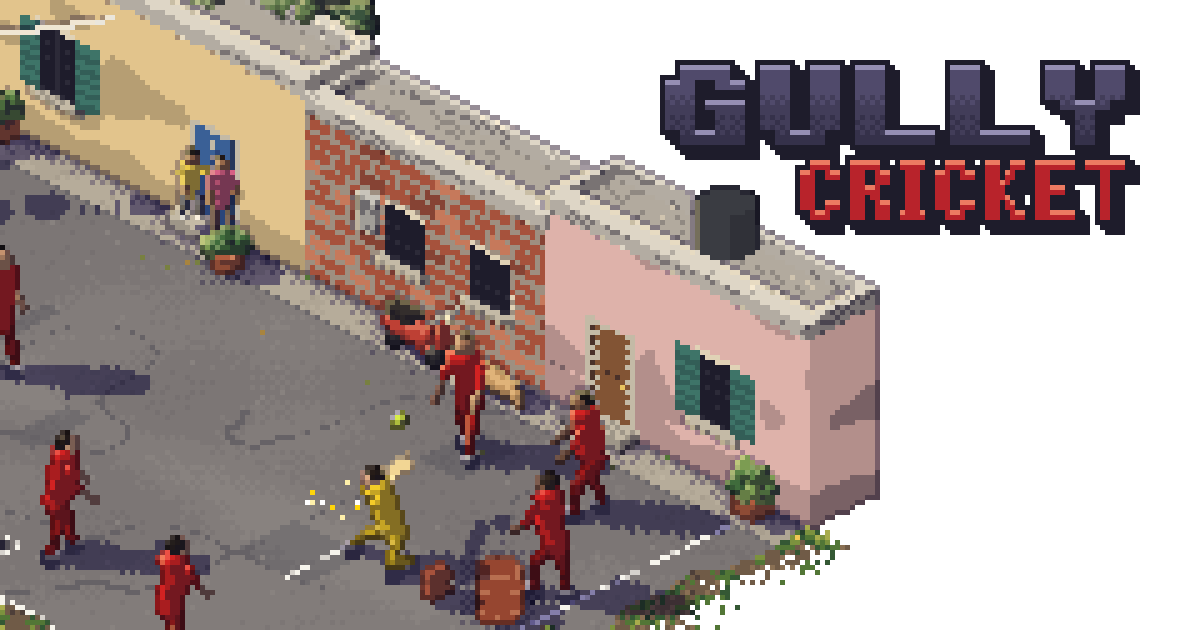
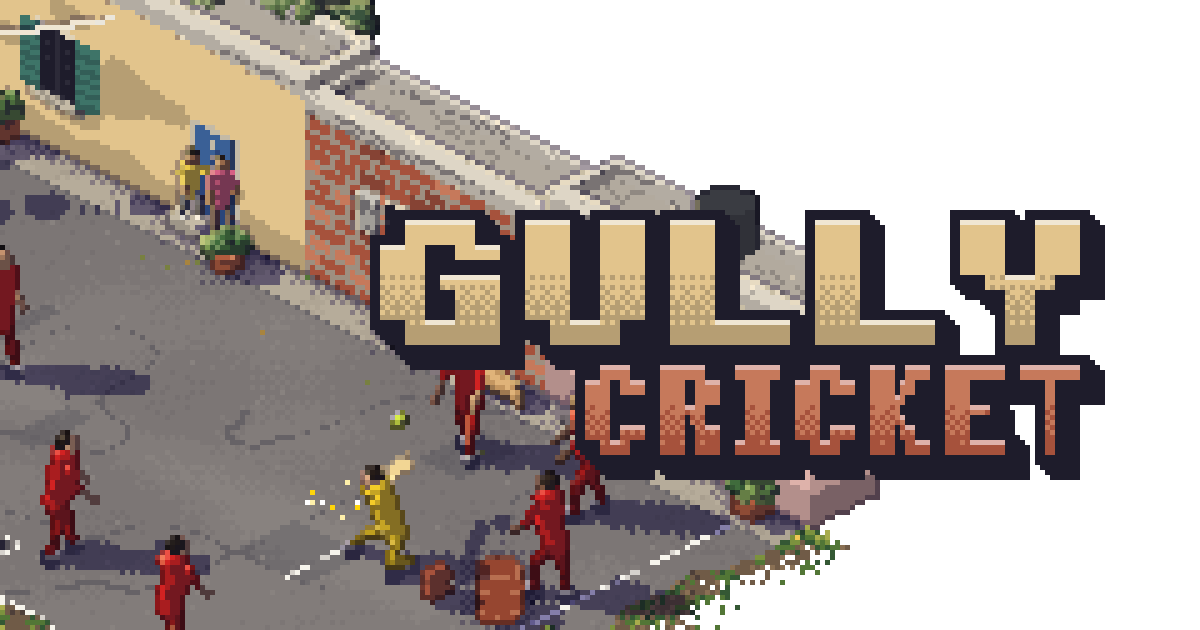
Link preview: GULLY CRICKET large over the scene, as in the mockup, in the scene's own sand and brick
The logo now spans x 370-1105, y 210-480 on the 5px grid, the size and place of the user's mockup. GULLY is the sand house's wall (#e2c48c/#b69e73, sill #f0e6d3 on top), CRICKET the brick wall (#c6795b/#a6523c, the pink wall's #deb2aa on top), with outline and side in the scene's darkest shadow #1e1c2b. The rule that the title may not touch the scene is gone; the script now checks it leaves the batter and the ball clear and stays 60px from the edges.

Agent-Id: agent-3fa41471-2c27-4681-970c-7f7c2cbf119c

Changed region(s): [[0.3083, 0.0905, 0.9558, 0.7841]]

diff --git a/scripts/make-art.js b/scripts/make-art.js
@@ -73,9 +73,10 @@ function frame(sc, t) {
    Pixel capitals drawn from 6×7 masks, where every mask column and row is given its own width and height in logo
    pixels: that is how GULLY is set broad and heavy and CRICKET condensed, from the same letters. The logo grid lands
    on the preview at LOGO px a pixel, the same ×5 as the scene, so its blocks line up with the scene's.
-   GULLY is a dark indigo taken from the scene's shadows, lit along the top of every stroke and Bayer-dithered darker
-   towards its foot; CRICKET is the favicon's cricket-ball red, flat, with the ball's highlight along its tops. Both
-   have an ink side extruded DEPTH logo pixels down and to the right and an ink outline round the lot. */
+   Every colour is one the engine paints in this very frame. GULLY_FILL / CRICKET_FILL below name where each was
+   sampled; each word is lit along the top of every stroke and Bayer-dithered darker towards its foot, the way the
+   engine shades a wall. Both have a side extruded DEPTH logo pixels down and to the right and an outline EDGE logo
+   pixels thick round the lot, in the scene's darkest shadow tone, so the title holds over the busy street. */
 const GLYPHS = {
   G: ['.####.', '##..##', '##....', '##.###', '##..##', '##..##', '.#####'],
   U: ['##..##', '##..##', '##..##', '##..##', '##..##', '##..##', '.####.'],
@@ -88,13 +89,19 @@ const GLYPHS = {
   E: ['######', '##....', '##....', '#####.', '##....', '##....', '######'],
   T: ['######', '..##..', '..##..', '..##..', '..##..', '..##..', '..##..'],
 };
-const LOGO = 5, DEPTH = 2, LEAD = 1;   // logo pixel in preview px; the extruded side and the space under a line, in logo px
-const INDIGO = ['#504a6b', '#423d59', '#35314a'], INDIGO_LIT = '#958eb3', TITLE_INK = '#1e1c2b';
+const LOGO = 5, DEPTH = 3, LEAD = 1, EDGE = 2;   // logo pixel in preview px; the side, the space under a line and the outline, in logo px
+/* sampled from the rendered scene (see the note above the title) */
+const INK = '#1e1c2b';                                     // the darkest shadow: the window openings and doorways
+const SAND = ['#e2c48c', '#b69e73'], SAND_LIT = '#f0e6d3';  // the sand house: its lit wall, its wall in shade, the window sills
+const BRICK = ['#c6795b', '#a6523c'];                       // the brick wall: the bricks catching the light, its brick
+const PINK_LIT = '#deb2aa';                                 // the pink house's lit wall, as the brick's highlight
+/* GULLY in the sand of the house it starts beside, CRICKET in the brick of the wall next to it */
+const GULLY_FILL = { ramp: SAND, lit: SAND_LIT }, CRICKET_FILL = { ramp: BRICK, lit: PINK_LIT };
 /* the lines, top to bottom. cols and rows: each mask column's width and each row's height (icols for the narrower I);
-   gap: logo pixels between letters. GULLY: 80×80 px letters with 25 px stems; CRICKET: 40×60 px with 15 px stems */
+   gap: logo pixels between letters. GULLY: 120×125 px letters with 45 px stems; CRICKET: 60×90 px with 25 px stems */
 const TITLE = [
-  { text: 'GULLY', cols: [3, 3, 2, 2, 3, 3], rows: [3, 2, 2, 2, 2, 2, 3], gap: 3, ramp: INDIGO, lit: INDIGO_LIT },
-  { text: 'CRICKET', cols: [2, 1, 1, 1, 1, 2], icols: [1, 2, 1, 1], rows: [2, 2, 1, 2, 1, 2, 2], gap: 2, ramp: [CRICKET_BALL.r], lit: CRICKET_BALL.h },
+  { text: 'GULLY', cols: [5, 4, 3, 3, 4, 5], rows: [5, 3, 3, 3, 3, 3, 5], gap: 5, ...GULLY_FILL },
+  { text: 'CRICKET', cols: [3, 2, 1, 1, 2, 3], icols: [2, 3, 2, 2], rows: [3, 3, 2, 2, 2, 3, 3], gap: 3, ...CRICKET_FILL },
 ];
 const sum = a => a.reduce((s, v) => s + v, 0);
 const edges = a => a.reduce((e, v) => (e.push(e.at(-1) + v), e), [0]);
@@ -105,8 +112,8 @@ const lineWidth = line => sum([...line.text].map(ch => sum(colsOf(line, ch)))) +
    starts `top` px down, and each line sits LEAD logo px under the side of the one above */
 function logo(right, top) {
   const w = OG_W / LOGO, h = OG_H / LOGO, fill = new Grid(w, h), at = new Grid(w, h), g = new Grid(w, h);
-  const r = right / LOGO - 2 - DEPTH;   // the last fill column: the side and the outline lie to its right
-  let y0 = top / LOGO + 1;
+  const r = right / LOGO - 1 - DEPTH - EDGE;   // the last fill column: the side and the outline lie to its right
+  let y0 = top / LOGO + EDGE;
   for (const line of TITLE) {
     const ry = edges(line.rows), hgt = ry.at(-1);
     let x0 = r + 1 - lineWidth(line);
@@ -122,14 +129,25 @@ function logo(right, top) {
   const isFill = (x, y) => fill.get(x, y) !== null;
   for (let y = 0; y < h; y++) for (let x = 0; x < w; x++) {
     if (isFill(x, y)) continue;
-    for (let k = 1; k <= DEPTH; k++) if (isFill(x - k, y - k)) { g.set(x, y, TITLE_INK); break; }
+    for (let k = 1; k <= DEPTH; k++) if (isFill(x - k, y - k)) { g.set(x, y, INK); break; }
   }
   for (let y = 0; y < h; y++) for (let x = 0; x < w; x++) {
     if (!isFill(x, y)) continue;
     const { line, t } = at.get(x, y), n = line.ramp.length;
     g.set(x, y, !isFill(x, y - 1) ? line.lit : line.ramp[Math.max(0, Math.min(n - 1, Math.floor(t * n - .3 + (BAYER[(y & 3) * 4 + (x & 3)] - .5) * 1.2)))]);
   }
-  return g.outline(TITLE_INK, true);
+  for (let k = 0; k < EDGE; k++) g.outline(INK, true);
+  // ink any pocket the outline closes off (one sits in the E), so no speck of the scene shows through the letters
+  const open = new Set(), todo = [0];
+  while (todo.length) {
+    const i = todo.pop();
+    if (open.has(i) || g.p[i] !== null) continue;
+    open.add(i);
+    const x = i % w, y = (i - x) / w;
+    if (x > 0) todo.push(i - 1); if (x < w - 1) todo.push(i + 1); if (y > 0) todo.push(i - w); if (y < h - 1) todo.push(i + w);
+  }
+  for (let i = 0; i < g.p.length; i++) if (g.p[i] === null && !open.has(i)) g.p[i] = INK;
+  return g;
 }
 // the box of everything drawn on a logo grid, in preview pixels
 function boxOf(g) {
@@ -166,16 +184,23 @@ const AFTER = .16, X0 = 162, Y0 = 70, SCALE = 5;   // close on the batter at ×5
 const og = crop(frame(SIX, moment(SIX, 'contact', AFTER)), X0, Y0, SCALE);
 inSafe('batter', batterBox(X0, Y0, SCALE));
 
-/* the title in the white at the upper right, the same SAFE margin to the top and the right edges. Set flush right, the
-   broad GULLY over the narrower CRICKET steps in towards the corner, as the roofline below it does, so the title
-   follows the diagonal edge of the scene with a band of white between. It must sit wholly on white: it may not
-   touch a single pixel of the scene (the rooftop water tank sits just below the C of CRICKET) */
-const title = logo(OG_W - SAFE, SAFE);
-inSafe('title', boxOf(title));
-for (let y = 0; y < title.h; y++) for (let x = 0; x < title.w; x++) {
-  if (title.get(x, y) === null) continue;
-  for (let v = 0; v < LOGO; v++) for (let u = 0; u < LOGO; u++)
-    if (og.get(x * LOGO + u, y * LOGO + v) !== PAPER) throw new Error(`the title touches the scene at (${x * LOGO + u}, ${y * LOGO + v})`);
+/* the ball on the output grid: the engine's ball, a few pixels either way, for the check that the title leaves it clear */
+function ballBox(x0, y0, scale) {
+  const b = project(G.ball.x, G.ball.y, G.ball.z), r = 3;
+  return { x0: (b.sx - r - x0) * scale, y0: (b.sy - r - y0) * scale, x1: (b.sx + r - x0) * scale, y1: (b.sy + r - y0) * scale };
 }
+const ball = ballBox(X0, Y0, SCALE), batter = batterBox(X0, Y0, SCALE);
+
+/* the title big and across the middle, as in the mockup the art was drawn to: GULLY from the brick wall over the pink
+   house's roof and out onto the white, CRICKET under it over the fielders by the scooter, both lines ending on the
+   white at the right. It may lie over the scene, but not over the batter or the ball, and keeps SAFE clear of every edge */
+const title = logo(1105, 210), titleBox = boxOf(title);
+inSafe('title', titleBox);
+for (const [name, b] of [['batter', batter], ['ball', ball]])
+  for (let y = 0; y < title.h; y++) for (let x = 0; x < title.w; x++) {
+    if (title.get(x, y) === null) continue;
+    if (x * LOGO < b.x1 && (x + 1) * LOGO > b.x0 && y * LOGO < b.y1 && (y + 1) * LOGO > b.y0) throw new Error(`the title covers the ${name} at (${x * LOGO}, ${y * LOGO})`);
+  }
 for (let y = 0; y < title.h; y++) for (let x = 0; x < title.w; x++) { const c = title.get(x, y); if (c !== null) og.rect(x * LOGO, y * LOGO, LOGO, LOGO, c); }
+console.log('title box', JSON.stringify(titleBox), 'batter', JSON.stringify(batter), 'ball', JSON.stringify(ball));
 out('public/og.png', png(og));
